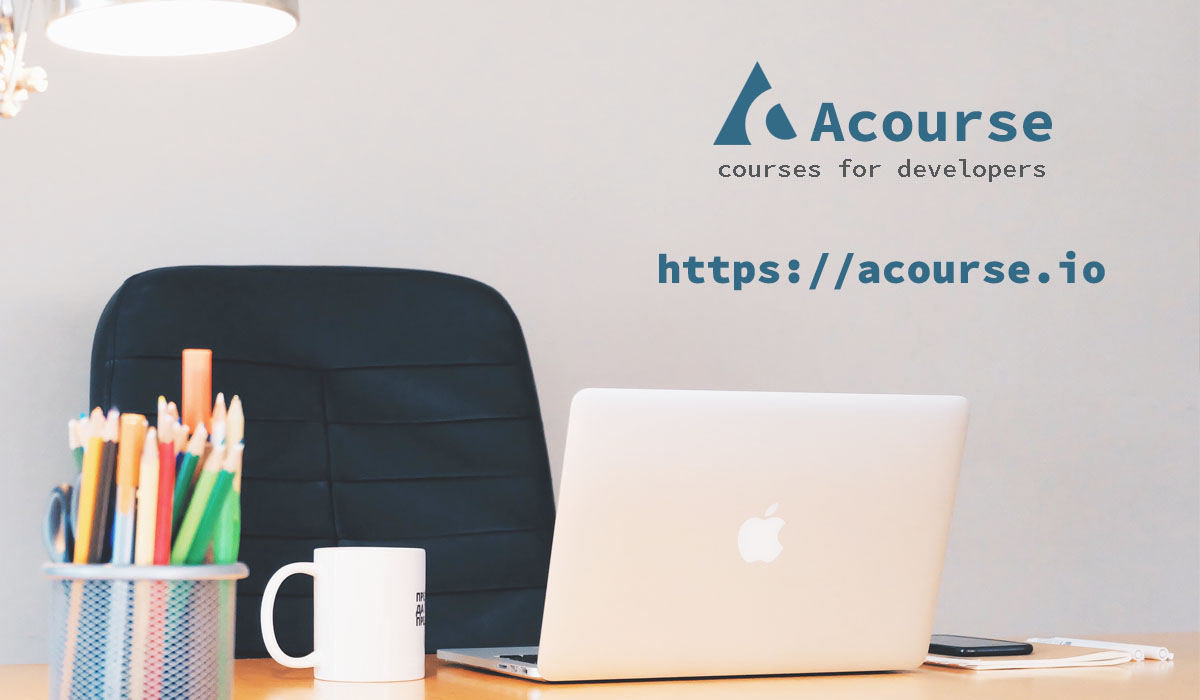
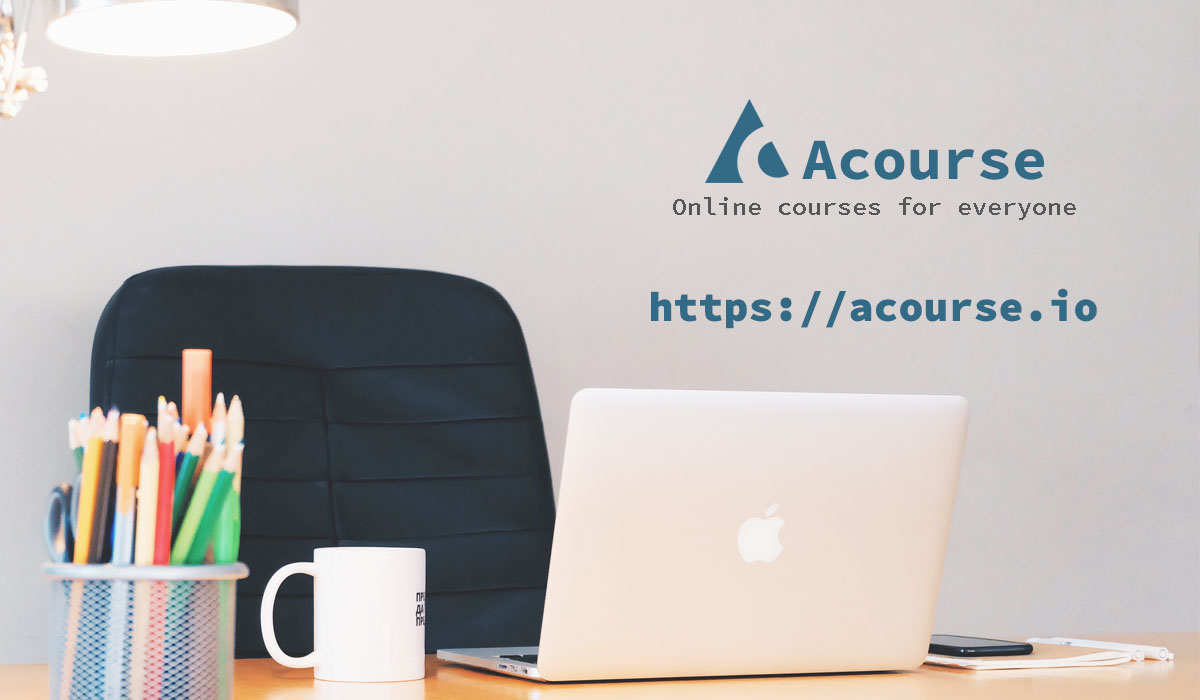
Update meta tag, change og photo

Changed region(s): [[0.555, 0.09, 0.8942, 0.33], [0.5242, 0.36, 0.925, 0.48]]

diff --git a/index.html b/index.html
@@ -4,14 +4,17 @@
     <meta charset="utf-8">
     <meta http-equiv="x-ua-compatible" content="ie=edge, chrome=1">
     <meta name="viewport" content="width=device-width, initial-scale=1.0">
-    <title>Acourse - courses for everyone</title>
+    <title>Acourse</title>
     <link rel="shortcut icon" sizes="16x16 24x24 32x32 48x48 64x64" href="/static/acourse-120.png">
+    <link rel="canonical" href="https://acourse.io">
+    <meta name="description" content="Online courses for everyone">
     <meta property="fb:app_id" content="1369680239711962">
     <meta property="og:url" content="https://acourse.io">
     <meta property="og:type" content="website">
-    <meta property="og:title" content="Acourse - courses for everyone">
+    <meta property="og:title" content="Acourse">
+    <meta property="og:description" content="Online courses for everyone">
     <meta property="og:site_name" content="Acourse">
-    <meta property="og:image" content="/static/acourse-og.jpg">
+    <meta property="og:image" content="https://acourse.io/static/acourse-og.jpg">
     <meta property="og:image:width" content="1200">
     <meta property="og:image:height" content="700">
     <script>
